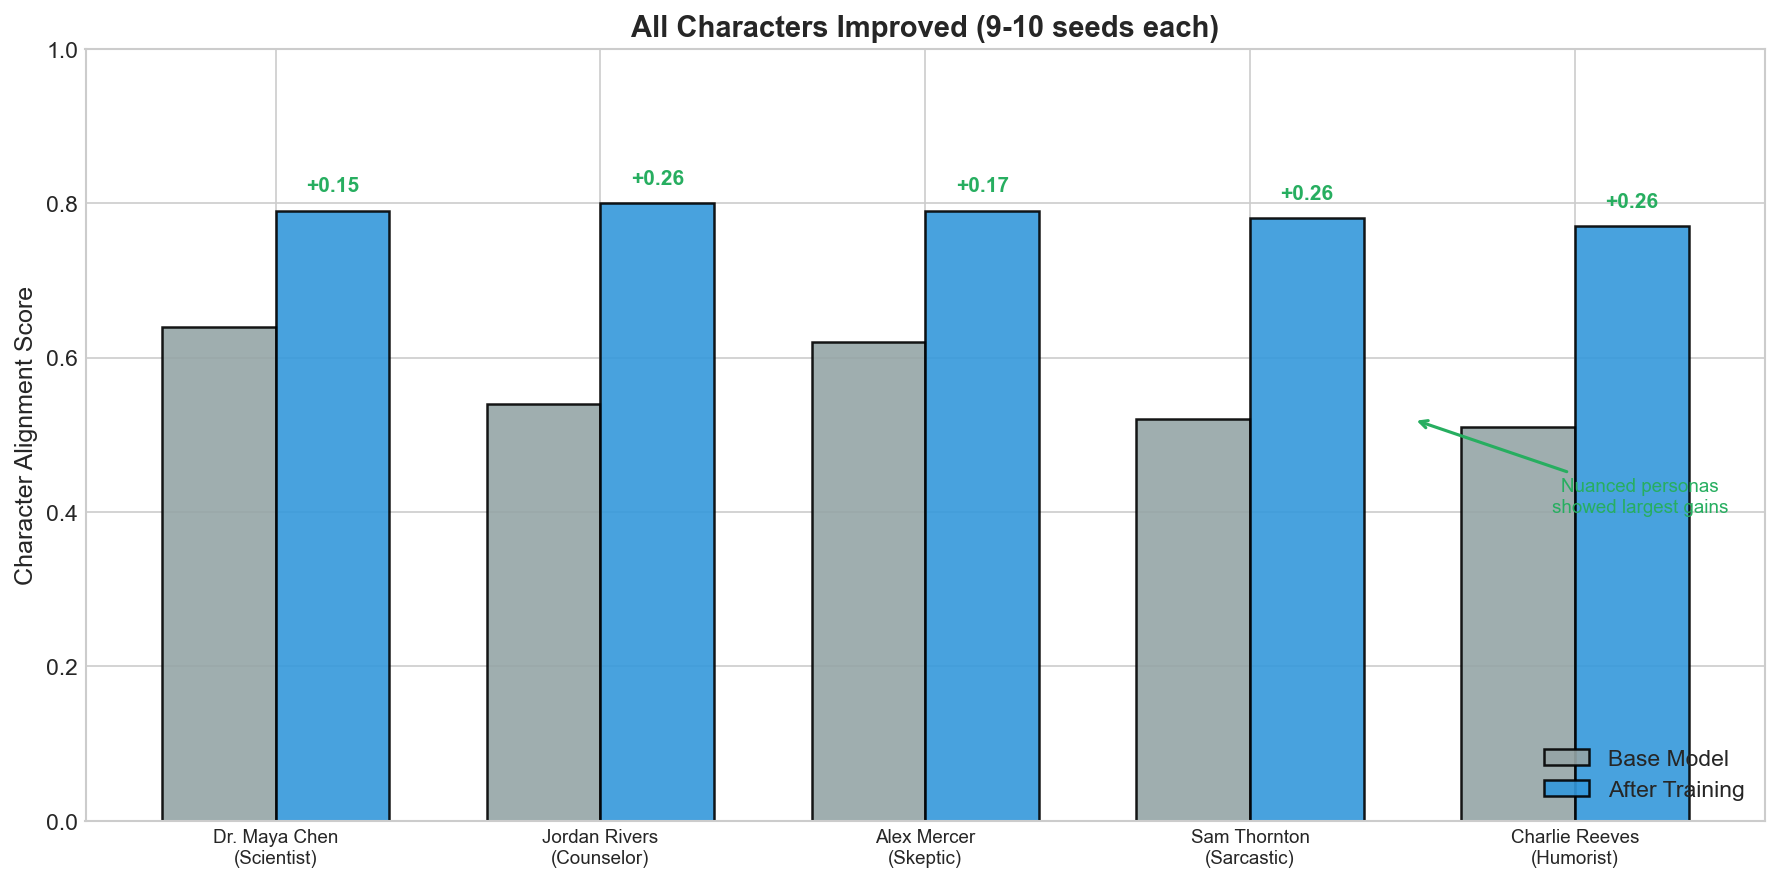
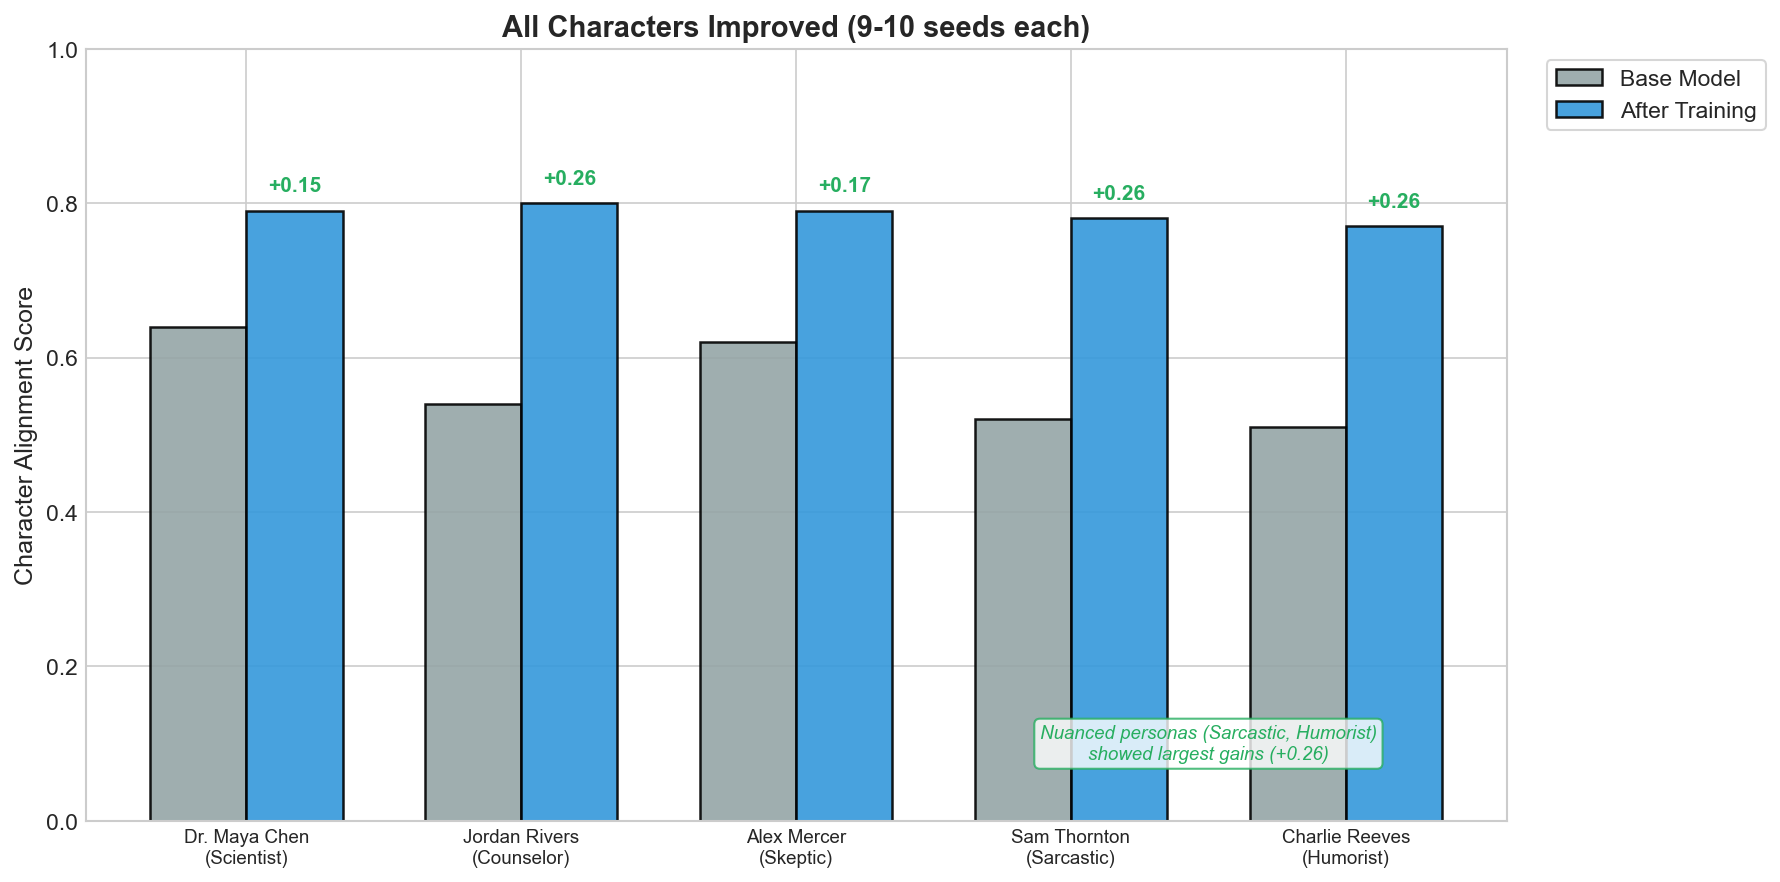
Fix per-character chart: move annotation and legend
- Moved "Nuanced personas" text to bottom of chart in a visible box
- Moved legend outside chart area to the right

🤖 Generated with [Claude Code](https://claude.com/claude-code)

diff --git a/scripts/generate_visualizations.py b/scripts/generate_visualizations.py
@@ -546,7 +546,7 @@ def generate_open_character_visualizations():
     ax.set_title('All Characters Improved (9-10 seeds each)', fontsize=14, fontweight='bold')
     ax.set_xticks(x)
     ax.set_xticklabels(characters, fontsize=9)
-    ax.legend(loc='lower right')
+    ax.legend(loc='upper left', bbox_to_anchor=(1.02, 1), frameon=True, fancybox=True)
     ax.set_ylim(0, 1.0)
 
     # Add improvement annotations
@@ -555,11 +555,10 @@ def generate_open_character_visualizations():
         ax.text(bar2.get_x() + bar2.get_width()/2, bar2.get_height() + 0.02,
                 f'+{imp:.2f}', ha='center', va='bottom', fontweight='bold', color='#27ae60', fontsize=10)
 
-    # Add note about "harder" characters
-    ax.annotate('Nuanced personas\nshowed largest gains', xy=(3.5, 0.52), xytext=(4.2, 0.40),
-                fontsize=9, ha='center',
-                arrowprops=dict(arrowstyle='->', color='#27ae60', lw=1.5),
-                color='#27ae60')
+    # Add note about "harder" characters - position below the chart
+    ax.text(3.5, 0.08, 'Nuanced personas (Sarcastic, Humorist)\nshowed largest gains (+0.26)',
+            fontsize=9, ha='center', color='#27ae60', style='italic',
+            bbox=dict(boxstyle='round,pad=0.3', facecolor='white', edgecolor='#27ae60', alpha=0.8))
 
     plt.tight_layout()
     plt.savefig(os.path.join(out_dir, 'per_character.png'), dpi=150, bbox_inches='tight')
